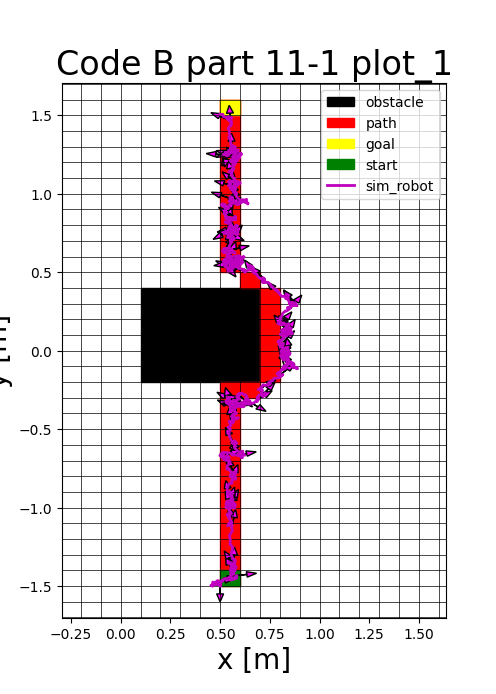
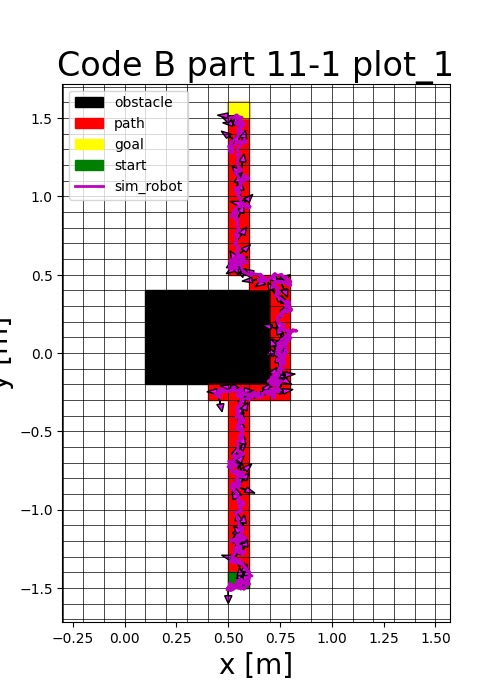
new online controller

Changed region(s): [[0.0302, 0.0605, 0.9073, 0.9683], [0.0, 0.4539, 0.0302, 0.5749]]

diff --git a/run.py b/run.py
@@ -470,13 +470,10 @@ class Grid():
         
         # zoom in figure if using smaller scale
         if self.scale == 0.1:
-            print("hihi")
             # fit graph to area of path
             corr = np.array([self.idx_to_crdnt(cell) for cell in self.plan])
-            print(corr)
             xlim = np.array([min(corr[:,0])-self.scale*2,max(corr[:,0])+self.scale*2])
             ylim = np.array([min(corr[:,1])-self.scale*2,max(corr[:,1])+self.scale*2])
-            print(xlim,ylim)
             w = (xlim[1]-xlim[0])
             l = (ylim[1]-ylim[0])
             ratio = w/l
@@ -576,7 +573,6 @@ class Grid():
         # calculate distance and heading error from current to goal point
         distance_error = np.sqrt((goal_x - actual_x)**2 + (goal_y - actual_y)**2)
         heading_error = np.atan2((goal_y - actual_y),(goal_x - actual_x)) - actual_theta
-
         # wrap angles
         if abs(heading_error) > 3.14:
             heading_error = (heading_error + np.pi) % (2 * np.pi) - np.pi
@@ -866,7 +862,8 @@ class Grid():
         # initialize total cost array and list for nodes in path
         f_list = []
         path_list = []
-
+        count = 0
+        copy_bool = False
         # loop
         while(1):
             # loop through open set
@@ -894,6 +891,34 @@ class Grid():
             # check if goal is reached
             if open_set[min_idx][0] == self.goal_index[0] and open_set[min_idx][1] == self.goal_index[1]:
                 path_list.append(open_set.pop(min_idx))
+                
+                # CHECK FOR CORNER COLLISSIONS because we can only see the cells next to us
+
+                # index difference
+                copy = path_list[-1].copy()
+                idx_dif = np.array(path_list[-1]) - np.array(self.crdnt_to_idx([self.x,self.y]))
+                # check if move is diagonal
+                if idx_dif[0] != 0 or idx_dif[1] != 0:
+                    # if it is diagonal, check if there are nearby obstacles that we could clip
+                    neighbors, occupied = self.find_if_cardinal_neighbors_occupied(self.crdnt_to_idx([self.x,self.y]))  # check if neighbors are occupied
+                    for ii in range(len(occupied)):
+                        if occupied[ii] == 1:
+                            dif = np.array((neighbors[ii])) - np.array(self.crdnt_to_idx([self.x,self.y]))
+                            # if any neighboring obstacles are next to this diagonal path, we need to move around them!
+                            if idx_dif[0] == dif[0]:
+                                # add a new temporary goal point to get around the obstacle
+                                path_list[-1][0] = path_list[-1][0] + int(-dif[0] * self.scale)
+                                copy_bool = True
+                            # if any neighboring obstacles are next to this diagonal path, we need to move around them!
+                            elif idx_dif[1] == dif[1]: 
+                                # add a new temporary goal point to get around the obstacle
+                                path_list[-1][1] = path_list[-1][1] + int(-dif[1] * self.scale)
+                                copy_bool = True
+                            
+                            if copy_bool:
+                                copy_bool = False
+                                self.codeB_prt10_simulator(path_list[-1],last=False)
+                                path_list.append(copy)
 
                 # run robot controller in real time
                 self.codeB_prt10_simulator(path_list[-1],last=True)
@@ -917,8 +942,41 @@ class Grid():
                     open_set.append(p)
 
             # run robot controller in real time
-            self.codeB_prt10_simulator(path_list[-1],last=False)
 
+            # CHECK FOR CORNER COLLISSIONS because we can only see the cells next to us
+
+            # index difference
+            copy = path_list[-1].copy()
+            idx_dif = np.array(path_list[-1]) - np.array(self.crdnt_to_idx([self.x,self.y]))
+            # check if move is diagonal
+            if idx_dif[0] != 0 or idx_dif[1] != 0:
+                # if it is diagonal, check if there are nearby obstacles that we could clip
+                neighbors, occupied = self.find_if_cardinal_neighbors_occupied(self.crdnt_to_idx([self.x,self.y]))  # check if neighbors are occupied
+                for ii in range(len(occupied)):
+                    if occupied[ii] == 1:
+                        dif = np.array((neighbors[ii])) - np.array(self.crdnt_to_idx([self.x,self.y]))
+                        # if any neighboring obstacles are next to this diagonal path, we need to move around them!
+                        if idx_dif[0] == dif[0]:
+                            # add a new temporary goal point to get around the obstacle
+                            path_list[-1][0] = path_list[-1][0] + int(-dif[0])
+                            copy_bool = True
+                        # if any neighboring obstacles are next to this diagonal path, we need to move around them!
+                        elif idx_dif[1] == dif[1]: 
+                            # add a new temporary goal point to get around the obstacle
+                            path_list[-1][1] = path_list[-1][1] + int(-dif[1])
+                            copy_bool = True
+                        
+                        if copy_bool:
+                            copy_bool = False
+                            self.codeB_prt10_simulator(path_list[-1],last=False)
+                            path_list.append(copy)
+
+
+                                
+
+            self.codeB_prt10_simulator(path_list[-1],last=False)
+            # print(f'count:{count}')
+            count+=1
             # visualize at every step if you would like (optional)
             # self.visualize_path_and_simulation(name=f"Real time planning and execution {len(path_list)}")
 
@@ -950,19 +1008,13 @@ class Grid():
         tolerance =  self.scale * 0.1
         distance_error = 10000          
 
-        # check if neighbors are occupied
-        neighbors, occupied = self.find_if_cardinal_neighbors_occupied(cell)
-        for ii in range(len(occupied)):
-            if occupied[ii] == 1:
-                dif = np.array((neighbors[ii])) - np.array((cell))
-                goal += -dif * self.scale * 0.75
-                
         # make sure it gets to the goal coordinate
         if last == True: 
             goal = self.goal                # make sure it goes to goal coordinates
             tolerance = 0.01     # tight tolerance to ensure it reaches goal state
+        
 
-        while(distance_error > tolerance):  
+        while(1):  
                 # run controller, get new velocities
             self.v_vel, self.omega_vel = self.codeB_prt8_controller(goal, [self.x, self.y, self.theta], [self.v_vel, self.omega_vel])
 
@@ -977,6 +1029,9 @@ class Grid():
             self.vel_hist.append([self.v_vel, self.omega_vel])
         
             self.goal_hist.append(goal)
+
+            if distance_error < tolerance:
+                break
 
         if self.prt:    
             print(f'config_hist {np.shape(self.config_hist)}\n')
@@ -1140,7 +1195,6 @@ class Grid():
 
             # calculate distance from goal
             distance_error = np.sqrt((goal[0] - self.x)**2 + (goal[1] - self.y)**2)
-            print(distance_error)
             # save history
             self.config_hist.append([self.x, self.y, self.theta])
             self.vel_hist.append([self.v_vel, self.omega_vel])
@@ -1207,73 +1261,73 @@ class Grid():
 
         
 def main():
-    # g1 = Grid([-2,5],[-6,6],1)
-    # g1.visualize_grid(name='Empty Grid') 
+    g1 = Grid([-2,5],[-6,6],1)
+    g1.visualize_grid(name='Empty Grid') 
 
-    # g1.codeA_part2_Offline(start=[0.5,-1.5],goal=[0.5,1.5])
-    # g1.visualize_path(name='Code A part 3 plot_1')
+    g1.codeA_part2_Offline(start=[0.5,-1.5],goal=[0.5,1.5])
+    g1.visualize_path(name='Code A part 3 plot_1')
 
-    # g1.codeA_part2_Offline(start=[4.5,3.5],goal=[4.5,-1.5])
-    # g1.visualize_path(name='Code A part 3 plot_2')
+    g1.codeA_part2_Offline(start=[4.5,3.5],goal=[4.5,-1.5])
+    g1.visualize_path(name='Code A part 3 plot_2')
 
-    # g1.codeA_part2_Offline(start=[-0.5,5.5],goal=[1.5,-3.5])
-    # g1.visualize_path(name='Code A part 3 plot_3')
+    g1.codeA_part2_Offline(start=[-0.5,5.5],goal=[1.5,-3.5])
+    g1.visualize_path(name='Code A part 3 plot_3')
 
-    # g1.codeA_part4_Online(start=[0.5,-1.5],goal=[0.5,1.5])
-    # g1.visualize_path(name='Code A part 5 plot_1')
+    g1.codeA_part4_Online(start=[0.5,-1.5],goal=[0.5,1.5])
+    g1.visualize_path(name='Code A part 5 plot_1')
 
-    # g1.codeA_part4_Online(start=[4.5,3.5],goal=[4.5,-1.5])
-    # g1.visualize_path(name='Code A part 5 plot_2')
+    g1.codeA_part4_Online(start=[4.5,3.5],goal=[4.5,-1.5])
+    g1.visualize_path(name='Code A part 5 plot_2')
 
-    # g1.codeA_part4_Online(start=[-0.5,5.5],goal=[1.5,-3.5])
-    # g1.visualize_path(name='Code A part 5 plot_3')
+    g1.codeA_part4_Online(start=[-0.5,5.5],goal=[1.5,-3.5])
+    g1.visualize_path(name='Code A part 5 plot_3')
 
-    # g2 = Grid([-2,5],[-6,6],.1)
-    # g2.visualize_grid(name='Empty, higher res Grid') 
+    g2 = Grid([-2,5],[-6,6],.1)
+    g2.visualize_grid(name='Empty, higher res Grid') 
 
-    # g2.codeA_part4_Online(start=[2.45,-3.55],goal=[0.95,-1.55])
-    # g2.visualize_path(name='Code A part 7 plot_1')
+    g2.codeA_part4_Online(start=[2.45,-3.55],goal=[0.95,-1.55])
+    g2.visualize_path(name='Code A part 7 plot_1')
 
-    # g2.codeA_part4_Online(start=[4.95,-0.05],goal=[2.45, 0.25])
-    # g2.visualize_path(name='Code A part 7 plot_2')
+    g2.codeA_part4_Online(start=[4.95,-0.05],goal=[2.45, 0.25])
+    g2.visualize_path(name='Code A part 7 plot_2')
 
-    # g2.codeA_part4_Online(start=[0.55, 1.45],goal=[1.95, 3.95])
-    # g2.visualize_path(name='Code A part 7 plot_3')
+    g2.codeA_part4_Online(start=[0.55, 1.45],goal=[1.95, 3.95])
+    g2.visualize_path(name='Code A part 7 plot_3')
 
-    # g3 = Grid([-2,5],[-6,6],.1)
-    # g3.codeA_part4_Online(start=[2.45,-3.55],goal=[0.95,-1.55])
-    # g3.codeB_prt8_simulator()
-    # g3.visualize_path_and_simulation(name='Code B part 9 plot_1')
-    # g3.codeA_part4_Online(start=[4.95,-0.05],goal=[2.45, 0.25])
-    # g3.codeB_prt8_simulator()
-    # g3.visualize_path_and_simulation(name='Code B part 9 plot_2')
-    # g3.codeA_part4_Online(start=[0.55, 1.45],goal=[1.95, 3.95])
-    # g3.codeB_prt8_simulator()
-    # g3.visualize_path_and_simulation(name='Code B part 9 plot_3')
+    g3 = Grid([-2,5],[-6,6],.1)
+    g3.codeA_part4_Online(start=[2.45,-3.55],goal=[0.95,-1.55])
+    g3.codeB_prt8_simulator()
+    g3.visualize_path_and_simulation(name='Code B part 9 plot_1')
+    g3.codeA_part4_Online(start=[4.95,-0.05],goal=[2.45, 0.25])
+    g3.codeB_prt8_simulator()
+    g3.visualize_path_and_simulation(name='Code B part 9 plot_2')
+    g3.codeA_part4_Online(start=[0.55, 1.45],goal=[1.95, 3.95])
+    g3.codeB_prt8_simulator()
+    g3.visualize_path_and_simulation(name='Code B part 9 plot_3')
 
-    # g4 = Grid([-2,5],[-6,6],.1)
-    # g4.codeB_part10_Online(start=[2.45,-3.55],goal=[0.95,-1.55])
-    # g4.visualize_path_and_simulation(name='Code B part 10 plot_1')
-    # g4.codeB_part10_Online(start=[4.95,-0.05],goal=[2.45, 0.25])
-    # g4.visualize_path_and_simulation(name='Code B part 10 plot_2')
-    # g4.codeB_part10_Online(start=[0.55, 1.45],goal=[1.95, 3.95])
-    # g4.visualize_path_and_simulation(name='Code B part 10 plot_3')
+    g4 = Grid([-2,5],[-6,6],.1)
+    g4.codeB_part10_Online(start=[2.45,-3.55],goal=[0.95,-1.55])
+    g4.visualize_path_and_simulation(name='Code B part 10 plot_1')
+    g4.codeB_part10_Online(start=[4.95,-0.05],goal=[2.45, 0.25])
+    g4.visualize_path_and_simulation(name='Code B part 10 plot_2')
+    g4.codeB_part10_Online(start=[0.55, 1.45],goal=[1.95, 3.95])
+    g4.visualize_path_and_simulation(name='Code B part 10 plot_3')
 
-    # g5 = Grid([-2,5],[-6,6],.1)
-    # g5.codeB_part10_Online(start=[0.5,-1.5],goal=[0.5,1.5])
-    # g5.visualize_path_and_simulation(name='Code B part 11-1 plot_1')
-    # g5.codeB_part10_Online(start=[4.5,3.5],goal=[4.5,-1.5])
-    # g5.visualize_path_and_simulation(name='Code B part 11-1 plot_2')
-    # g5.codeB_part10_Online(start=[-0.5,5.5],goal=[1.5,-3.5])
-    # g5.visualize_path_and_simulation(name='Code B part 11-1 plot_3')
+    g5 = Grid([-2,5],[-6,6],.1)
+    g5.codeB_part10_Online(start=[0.5,-1.5],goal=[0.5,1.5])
+    g5.visualize_path_and_simulation(name='Code B part 11-1 plot_1')
+    g5.codeB_part10_Online(start=[4.5,3.5],goal=[4.5,-1.5])
+    g5.visualize_path_and_simulation(name='Code B part 11-1 plot_2')
+    g5.codeB_part10_Online(start=[-0.5,5.5],goal=[1.5,-3.5])
+    g5.visualize_path_and_simulation(name='Code B part 11-1 plot_3')
 
-    # g6 = Grid([-2,5],[-6,6],1)
-    # g6.codeB_part10_Online(start=[0.5,-1.5],goal=[0.5,1.5])
-    # g6.visualize_path_and_simulation(name='Code B part 11-2 plot_1')
-    # g6.codeB_part10_Online(start=[4.5,3.5],goal=[4.5,-1.5])
-    # g6.visualize_path_and_simulation(name='Code B part 11-2 plot_2')
-    # g6.codeB_part10_Online(start=[-0.5,5.5],goal=[1.5,-3.5])
-    # g6.visualize_path_and_simulation(name='Code B part 11-2 plot_3')
+    g6 = Grid([-2,5],[-6,6],1)
+    g6.codeB_part10_Online(start=[0.5,-1.5],goal=[0.5,1.5])
+    g6.visualize_path_and_simulation(name='Code B part 11-2 plot_1')
+    g6.codeB_part10_Online(start=[4.5,3.5],goal=[4.5,-1.5])
+    g6.visualize_path_and_simulation(name='Code B part 11-2 plot_2')
+    g6.codeB_part10_Online(start=[-0.5,5.5],goal=[1.5,-3.5])
+    g6.visualize_path_and_simulation(name='Code B part 11-2 plot_3')
 
     g7 = Grid([2,5],[-6,6],.1)
     g7.codeB_prt13(start=[2.45,-3.55],goal=[0.95,-1.55],name='CodeB_prt13_plot_1') # success
